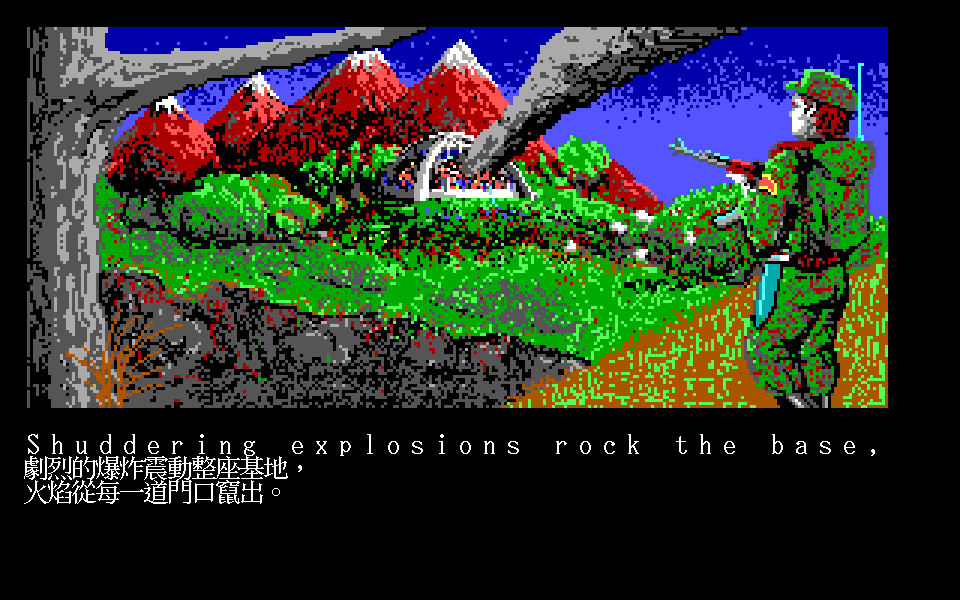
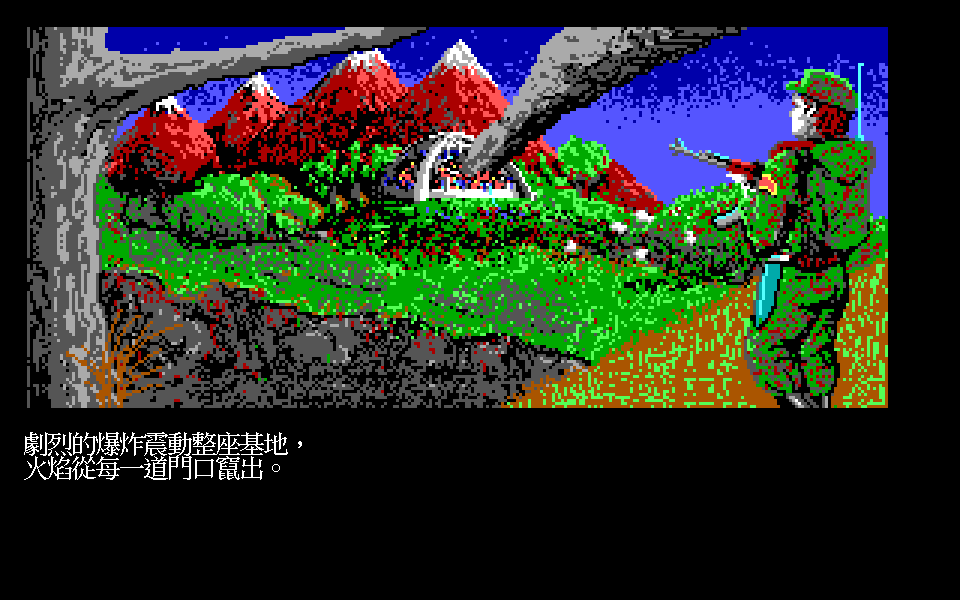
結局那一頁不要同時印中英文，推廣片與譯文條數一起對齊
推廣片重跑之後從 frame-62 看出來的：showEndingPage 把英文與中文兩份都設，
而 24 點的中文填滿整個字元格，緊貼的兩行看起來像疊在一起。改成有中文就
清掉英文（與 showCombatPrompt、sayPlace 同一條規矩），查不到譯文時 fallback
不變。TestEndingPageDropsEnglishWhenTranslated 走完整段結局，任何一幀同時有
中英文就紅——拿掉修正驗過會紅（41 幀）。

譯文條數對齊到 4,915（build_lang.py 的輸出是權威）：make_promo.sh 兩處、
dist.sh 一處、README 兩處、spec/00-index 一處。合併 UTF-8 分支時多了一條
ui:save.donenonames，所以從 4,914 變 4,915。

README 截圖 05-ending 與 06-epilogue 跟著重跑；推廣片（76 秒）已重新產生，
產物不入版控。

worklist 的「下一步的順序」補兩列：遊戲中讀長段落只看得到尾巴、
讀段落那行 Paragraph 23 還是英文。

Changed region(s): [[0.0312, 0.72, 0.3125, 0.84], [0.8125, 0.72, 0.8438, 0.75], [0.7188, 0.72, 0.75, 0.75]]

diff --git a/internal/play/ending.go b/internal/play/ending.go
@@ -197,10 +197,18 @@ func (s *Scene) updateEnding(in input.Input) (bool, error) {
 	return true, nil
 }
 
-// showEndingPage 把第 n 條敘述放進訊息視窗，中英各走各的視窗。
+// showEndingPage 把第 n 條敘述放進訊息視窗。
+//
+// ⚠ **有中文就不要留英文**（與 `showCombatPrompt`、`sayPlace` 同一條規矩）：
+// 兩份一起印會佔掉訊息視窗六列裡的兩列，而且英文那一列與中文那一列
+// **緊貼著**——24 點的中文字填滿整個字元格，看起來像兩行疊在一起。
+// 查不到譯文時 `endingCJK` 回空字串，那時就只有英文，fallback 不變。
 func (s *Scene) showEndingPage(n int) {
 	s.message = s.endingText(n)
 	s.cjk = s.endingCJK(n)
+	if s.cjk != "" {
+		s.message = ""
+	}
 }
 
 // drawEnding 畫結局：整張圖佔圖片視窗，敘述走訊息視窗。

diff --git a/internal/play/ending_test.go b/internal/play/ending_test.go
@@ -145,3 +145,26 @@ func TestEndingSetsMissionFlagAndRadioPraises(t *testing.T) {
 		t.Fatalf("賀詞念了第二次：%q", s.Message())
 	}
 }
+
+// 結局敘述有中文就不留英文——兩份一起印會佔掉六列裡的兩列，
+// 而且 24 點的中文填滿整個字元格，緊貼的兩行看起來像疊在一起
+// （推廣片的 frame-62 就是這樣被抓到的）。
+func TestEndingPageDropsEnglishWhenTranslated(t *testing.T) {
+	s := newScene(t)
+	if err := s.LoadCatalogue("../../translations/zh-Hant.cat"); err != nil {
+		t.Skipf("載入翻譯目錄：%v", err)
+	}
+	s.BeginEnding()
+	both := 0
+	for i := 0; i < 400; i++ {
+		if _, err := s.Update(input.Input{}); err != nil {
+			t.Fatal(err)
+		}
+		if s.cjk != "" && s.Message() != "" {
+			both++
+		}
+	}
+	if both > 0 {
+		t.Errorf("有 %d 幀同時印了中英文", both)
+	}
+}

diff --git a/README.md b/README.md
@@ -22,7 +22,7 @@
 | | |
 |---|---|
 | ![地圖](docs/images/01-map.png) | ![訊息](docs/images/04-message.png) |
-| **地圖**：底部是原版的指令列，熱鍵字母照原版不跟著翻譯走 | **訊息**：4,914 條可翻字串已全部翻完 |
+| **地圖**：底部是原版的指令列，熱鍵字母照原版不跟著翻譯走 | **訊息**：4,915 條可翻字串已全部翻完 |
 | ![手札](docs/images/02-journal.png) | ![USE](docs/images/03-use.png) |
 | **手札**：段落書 162 段做進遊戲，按 `P` 翻閱；陷阱段落標「誘餌」 | **USE**：技能／物品／屬性三選一，判定照原版的字母表 |
 | ![問答](docs/images/07-question.png) | ![結局](docs/images/05-ending.png) |
@@ -238,7 +238,7 @@ CGA／Composite 四種組合裡挑一個。
 | 介面（重製版加的） | F1 說明、F2 設定、F5／F9 快速存讀檔、F10 離開（先問再先存後退）|
 | 配樂（重製版加的） | 十首 MT-32 曲子，跟著場景與晝夜切換；原版沒有背景音樂 |
 | 開場與結局 | 標題畫面 → `Start` → 地圖；自毀倒數觸發結局，畫面、15 格動畫、四段敘述與死者點名 |
-| 中文化 | 可翻字串 4,914／4,914（原版語料 4,806 ＋ 重製版介面 108）、段落書 162／162 |
+| 中文化 | 可翻字串 4,915／4,915（原版語料 4,806 ＋ 重製版介面 109）、段落書 162／162 |
 
 **驗收不走「從頭玩到結局」那條路**——一次通關要幾十小時、不可重跑，
 中途卡住就什麼都驗不到。改成量**觸發點的覆蓋率**再抽樣：

diff --git a/docs/spec/00-index.md b/docs/spec/00-index.md
@@ -85,7 +85,7 @@
 10. 戰鬥               ← 規格 06（命中、兩種傷害、護甲、傷勢、擊殺經驗值）
 11. 設施               ← 規格 09（商店價格、醫生三種收費、訓練師）
 12. 中文排版           ← 規格 10（960×600 畫布、倚天 24 點優先、索引 oracle 過關）
-13. 翻譯目錄           ← 規格 11（原版語料 4,827 條，目錄合計 4,910 條全部翻完）
+13. 翻譯目錄           ← 規格 11（原版語料 4,827 條，目錄合計 4,915 條全部翻完）
 14. 戰鬥回合           ← 規格 12（三組×10、行動旗標、行動順序表、逃跑）
 15. 音效               ← 規格 08（位元組碼直譯器 ＋ 四聲部仲裁，九首全在 seg005）
 16–26. 遭遇生成、戰鬥指令、遭遇掃描、戰鬥畫面、指令處理程式、設施互動迴圈、
